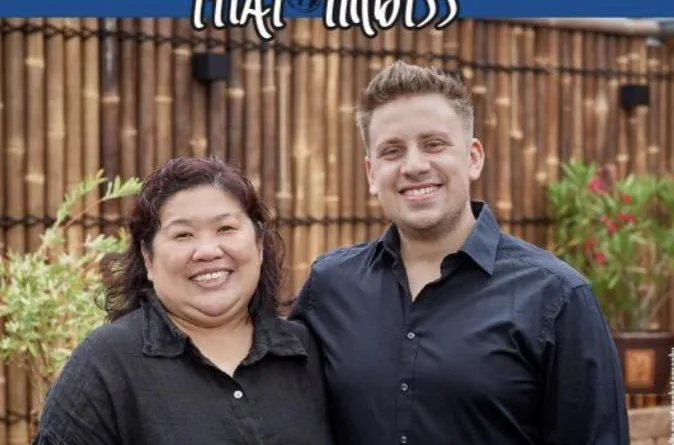
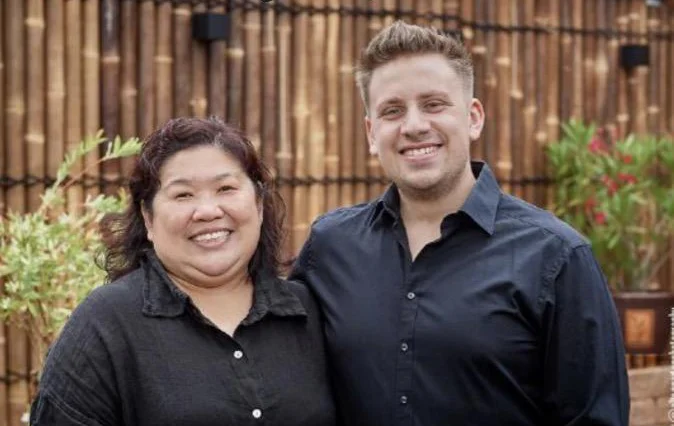
Crop team photo to remove wordmark, drop "1 Maske" fact chip
- Re-crop team photo to show only the owners in front of the bamboo,
  removing the "Thai Imbiss" wordmark bar at the top
- Remove the "1 Maske" chip from the About fact list

Claude-Session: https://claude.ai/code/session_01NyoFDtP9anugoWg8o7pT9s

diff --git a/index.html b/index.html
@@ -163,7 +163,7 @@
     <section class="about" id="ueber-uns">
       <div class="about__inner">
         <figure class="polaroid polaroid--team anim-up">
-          <img src="assets/img/team.webp" alt="Das Gophai-Team: zwei lächelnde Menschen vor einer Bambuswand" width="674" height="483" loading="lazy">
+          <img src="assets/img/team.webp" alt="Das Gophai-Team: zwei lächelnde Menschen vor einer Bambuswand" width="674" height="426" loading="lazy">
           <figcaption>Euer Team von Gophai</figcaption>
         </figure>
         <div class="about__copy">
@@ -175,7 +175,6 @@
             <li><strong>98</strong> Gerichte</li>
             <li><strong>100%</strong> Halal</li>
             <li><strong>4</strong> Schärfegrade</li>
-            <li><strong>1</strong> Maske</li>
           </ul>
         </div>
       </div>
